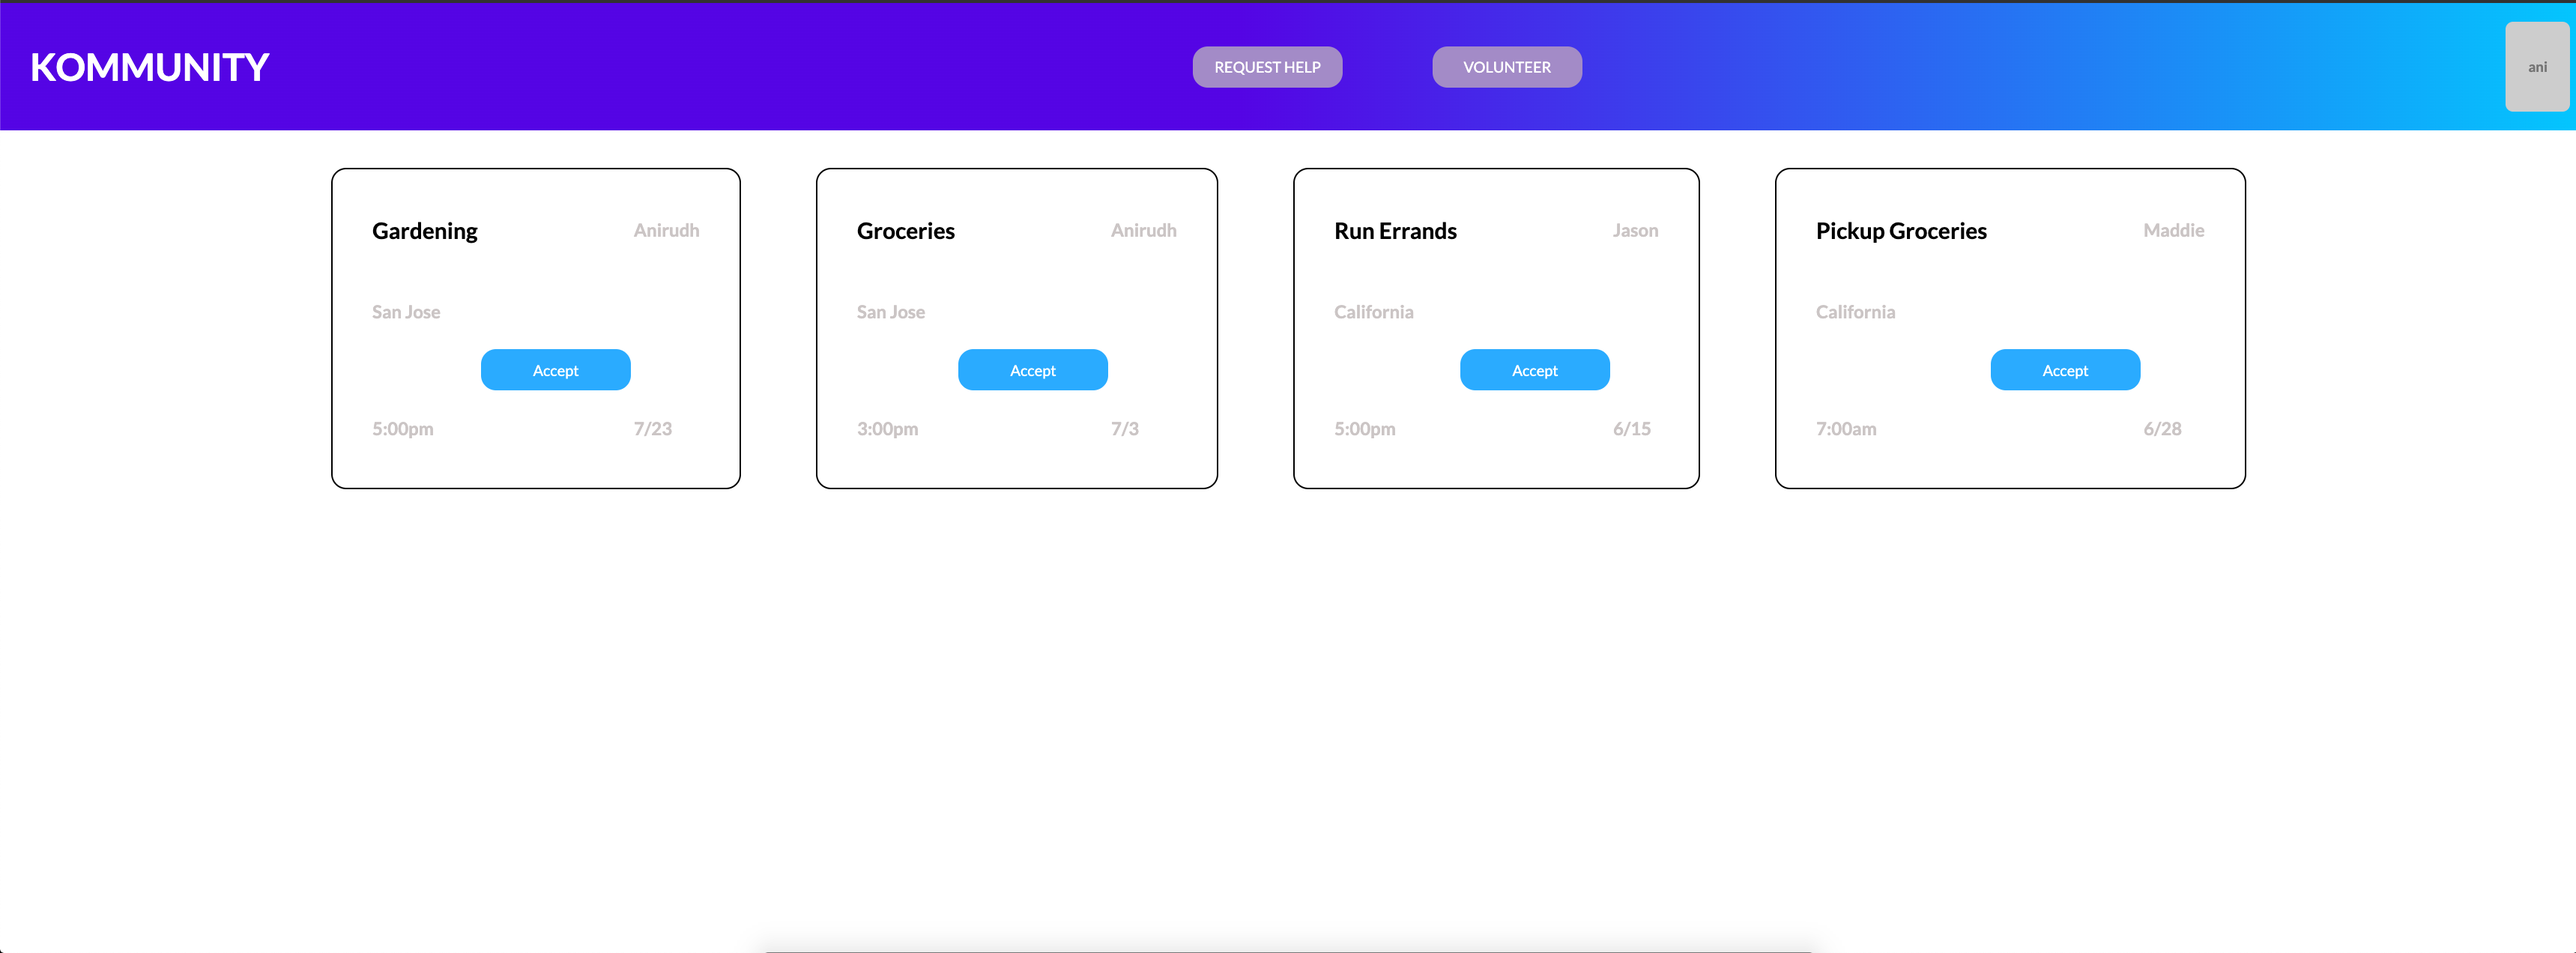
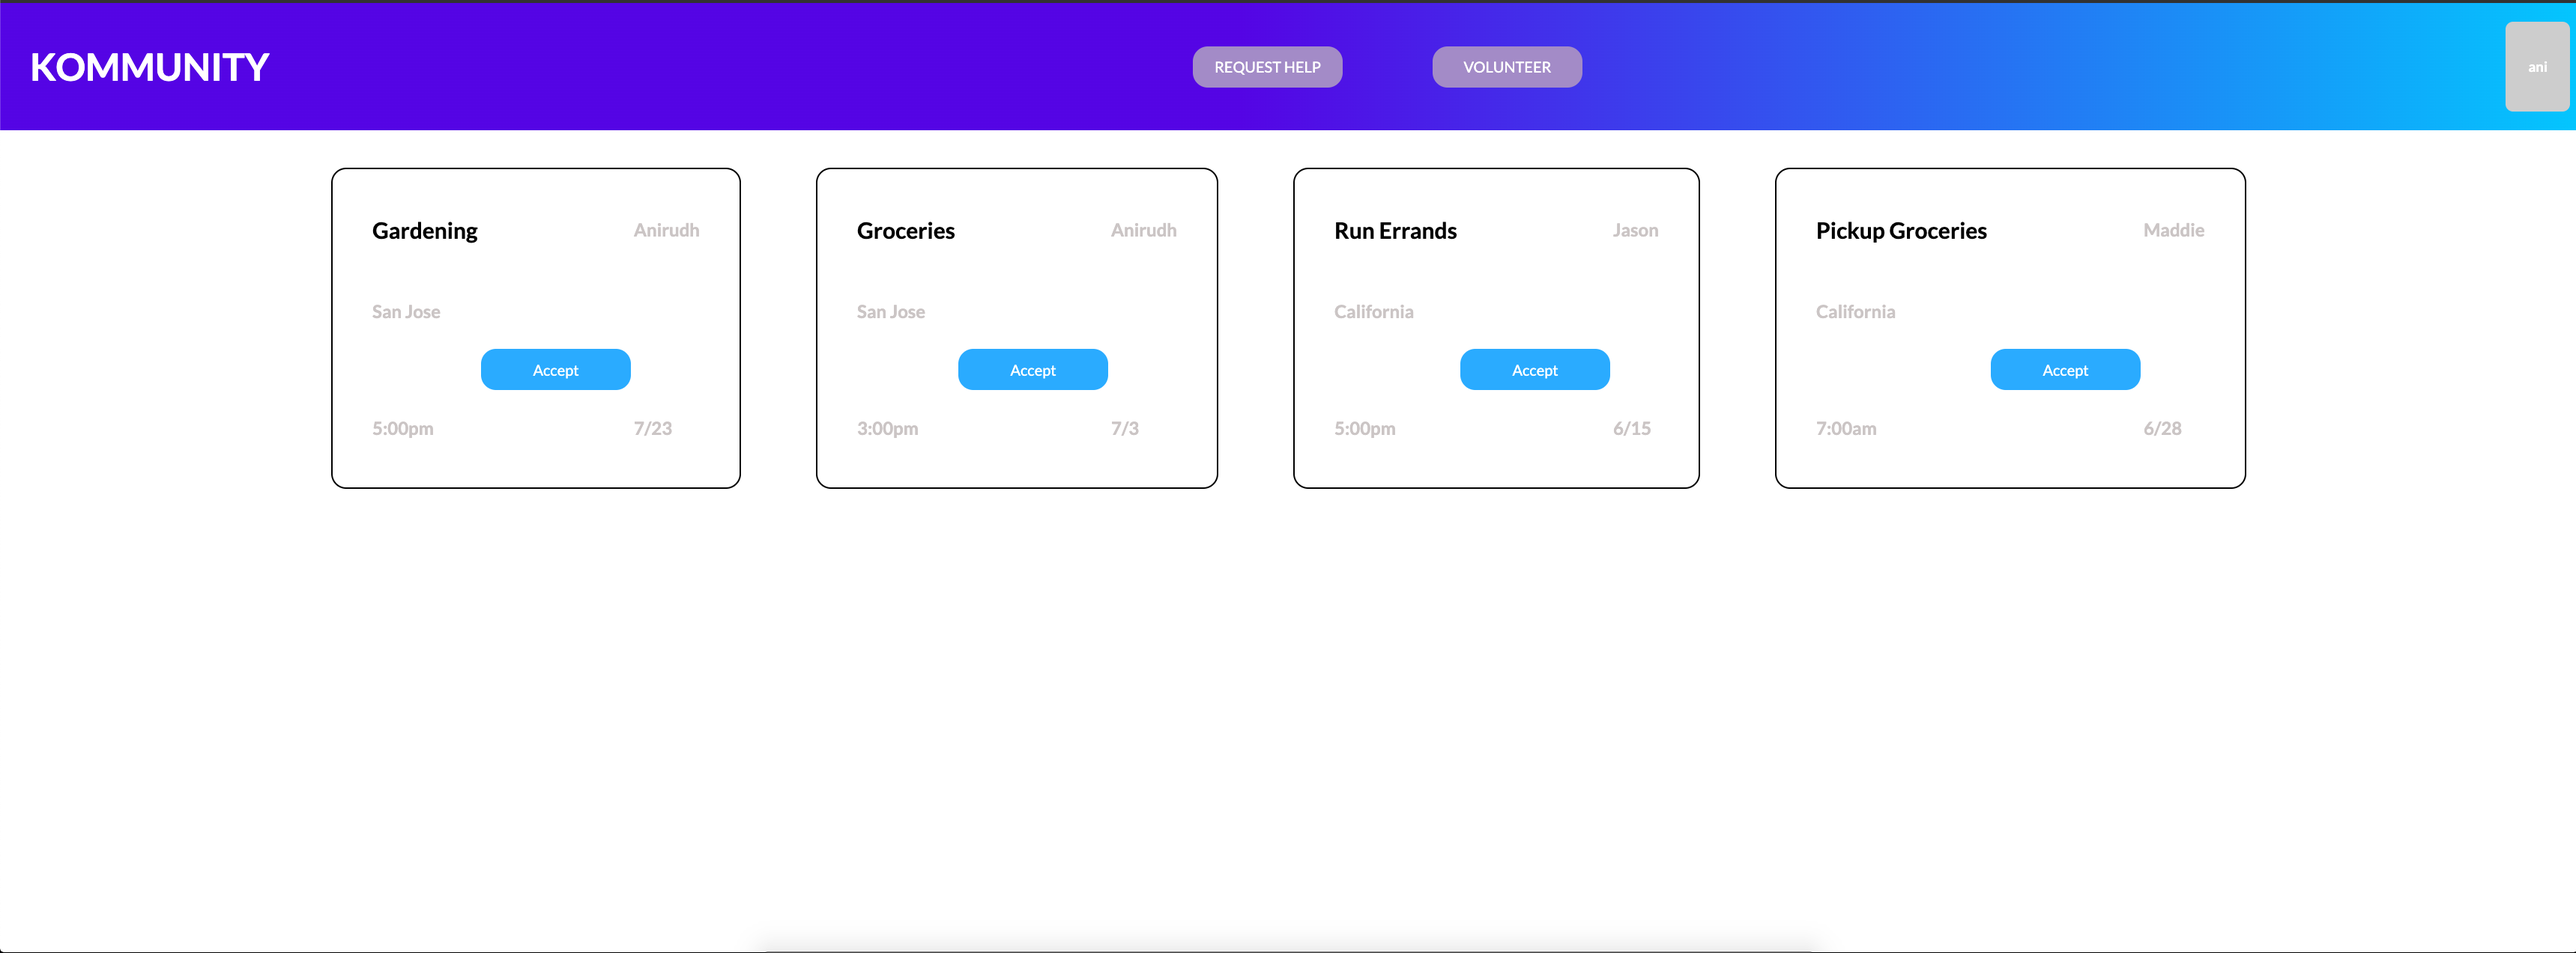
Fix volunteer page.

diff --git a/Volunteer/style.css b/Volunteer/style.css
@@ -49,7 +49,7 @@ body {
 
 #profile-div {
     
-    color:gray;
+    color:white;
     background-color:lightgray;
     
     width:max-content;
